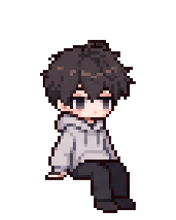
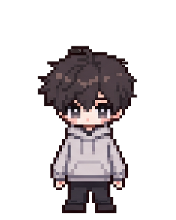
小家：上床改为渐变坐进被子再躺下，沙发换成正面坐姿并拉开间距 (#76)
- 上床是起床的倒放：走到床边后站姿淡出、被子里的坐姿同时淡入，
  停 420 毫秒，再躺下睡着。两人仍然先都走到床边再一起上床。
- 沙发：两人原来挤在中间并互相重叠，现在各坐一个坐垫正中
  （间距 .07 → .115），都用正面坐姿。
- boy_sit.png / girl_sit.png 换成正面坐姿。仓库里没有正面坐姿的原图，
  这两张是把站立图的腿缩短得到的；有手绘版时替换同名文件即可。
- 坐姿不再左右镜像。

Changed region(s): [[0.1989, 0.1636, 0.7955, 0.9818]]

diff --git a/frontend/test/room-engine.test.ts b/frontend/test/room-engine.test.ts
@@ -184,25 +184,57 @@ test("straight floor retargets keep their travel direction and avoid an initial 
   assert.equal(findSafePath({ nx: .60, ny: .46 }, { nx: .60, ny: .61 }, true), null);
 });
 
-test("actors fade into their furniture anchors together without sliding in a seated or sleeping pose", () => {
-  for (const kind of ["bed", "sofa"] as const) {
-    const engine = new RoomEngine();
-    const placed = kind === "bed" ? "SLEEP" : "SIT";
-    let sawPlacement = false;
-    engine.furniture(kind);
-    for (let frame = 0; frame < 360; frame++) {
-      const before = engine.snapshot().actors;
-      engine.tick(16);
-      const after = engine.snapshot().actors;
-      assert.equal(after.user.phase === placed, after.companion.phase === placed);
-      if (after.user.phase !== placed || before.user.phase === placed) continue;
-      sawPlacement = true;
-      for (const id of ["companion", "user"] as const) {
-        assert.ok((after[id].opacity ?? 1) <= .2);
-        assert.deepEqual(after[id].point, FURNITURE[kind][id].anchor);
-      }
+test("actors settle onto the sofa together in one fade, without sliding in a seated pose", () => {
+  const engine = new RoomEngine();
+  let sawPlacement = false;
+  engine.furniture("sofa");
+  for (let frame = 0; frame < 360; frame++) {
+    const before = engine.snapshot().actors;
+    engine.tick(16);
+    const after = engine.snapshot().actors;
+    assert.equal(after.user.phase === "SIT", after.companion.phase === "SIT");
+    if (after.user.phase !== "SIT" || before.user.phase === "SIT") continue;
+    sawPlacement = true;
+    for (const id of ["companion", "user"] as const) {
+      assert.ok((after[id].opacity ?? 1) <= .2);
+      assert.deepEqual(after[id].point, FURNITURE.sofa[id].anchor);
     }
-    assert.equal(sawPlacement, true);
+  }
+  assert.equal(sawPlacement, true);
+});
+
+test("going to bed crossfades to sitting under the quilt, pauses, then lies down", () => {
+  const engine = new RoomEngine();
+  const seen = { crossfade: 0, sitting: 0 };
+  engine.furniture("bed");
+  for (let frame = 0; frame < 360; frame++) {
+    engine.tick(16);
+    const actors = engine.snapshot().actors;
+    // Once both have walked up, they settle in step.
+    if (actors.user.phase !== "WALK" && actors.companion.phase !== "WALK") assert.equal(actors.user.phase, actors.companion.phase);
+    for (const id of ["companion", "user"] as const) {
+      const actor = actors[id];
+      const pillow = FURNITURE.bed[id].anchor;
+      if (actor.incoming) {
+        seen.crossfade++;
+        assert.deepEqual(actor.point, FURNITURE.bed[id].approach);
+        assert.equal(actor.incoming.phase, "SIT");
+        assert.equal(actor.incoming.furniture, "bed");
+        assert.ok(Math.abs((actor.opacity ?? 1) + (actor.incoming.opacity ?? 1) - 1) < 1e-9);
+      }
+      if (actor.furniture !== "bed") continue;
+      assert.notEqual(actor.phase, "WALK");
+      assert.equal(actor.point.nx, pillow.nx);
+      assert.ok(actor.point.ny <= pillow.ny && actor.point.ny > pillow.ny - .03);
+      if (actor.phase === "SIT") seen.sitting++;
+      else assert.deepEqual(actor.point, pillow);
+    }
+  }
+  assert.ok(seen.crossfade >= 2 * 15, "the move onto the bed is a crossfade, not a jump");
+  assert.ok(seen.sitting >= 2 * 20, "both sit for a beat before lying down");
+  for (const id of ["companion", "user"] as const) {
+    assert.equal(engine.snapshot().actors[id].phase, "SLEEP");
+    assert.deepEqual(engine.snapshot().actors[id].point, FURNITURE.bed[id].anchor);
   }
 });
 

diff --git a/frontend/src/room/roomEngine.ts b/frontend/src/room/roomEngine.ts
@@ -54,6 +54,12 @@ function faceDir(from: RoomPoint, to: RoomPoint, previous: FacingDir = "side"): 
   return "side";
 }
 
+// Where an actor sits up in bed: a little above the pillow, still under the quilt.
+const sitUpPoint = (actor: ActorId): RoomPoint => {
+  const pillow = FURNITURE.bed[actor].anchor;
+  return { nx: pillow.nx, ny: pillow.ny - SIT_UP_RISE };
+};
+
 const makeTrack = (point: RoomPoint): Track => ({
   frame: { point, phase: "IDLE", step: 0, facingLeft: false, facingDir: "front" },
   steps: [],
@@ -119,8 +125,9 @@ export class RoomEngine {
     const user = this.plan("user", FURNITURE[furniture].user.anchor, furniture);
     if (!companion || !user) return;
     const plans = [companion, user];
-    const approaches = plans.map(plan => ({ ...plan, steps: plan.steps.slice(0, -1) }));
-    const placements = plans.map(plan => ({ ...plan, steps: plan.steps.slice(-1) }));
+    // Both walk up first, then settle together; the settling steps are the ones on the furniture.
+    const approaches = plans.map(plan => ({ ...plan, steps: plan.steps.filter(step => !step.furniture) }));
+    const placements = plans.map(plan => ({ ...plan, steps: plan.steps.filter(step => step.furniture) }));
     this.begin(approaches, undefined, [placements]);
   }
 
@@ -129,18 +136,14 @@ export class RoomEngine {
     if (this.locked || !this.sleeping) return;
     // Sit up under the quilt, pause, then dissolve to standing on the floor.
     // Sliding the seated sprite to the floor instead would pass under the quilt.
-    this.begin(ACTORS.map(actor => {
-      const pillow = FURNITURE.bed[actor].anchor;
-      const upright = { nx: pillow.nx, ny: pillow.ny - SIT_UP_RISE };
-      return {
-        actor,
-        steps: [
-          { point: upright, furniture: "bed", transition: "SIT", pose: "SIT" },
-          { point: upright, furniture: "bed", pose: "SIT", wait: SIT_UP_MS },
-          { point: WAKE_POINTS[actor], pose: "IDLE", place: true, crossfade: true },
-        ],
-      };
-    }));
+    this.begin(ACTORS.map(actor => ({
+      actor,
+      steps: [
+        { point: sitUpPoint(actor), furniture: "bed", transition: "SIT", pose: "SIT" },
+        { point: sitUpPoint(actor), furniture: "bed", pose: "SIT", wait: SIT_UP_MS },
+        { point: WAKE_POINTS[actor], pose: "IDLE", place: true, crossfade: true },
+      ],
+    })));
   }
 
   action(action: CompanionAction, initiator: ActionInitiator = "OWNER") {
@@ -167,13 +170,15 @@ export class RoomEngine {
     const steps: Step[] = [];
     if (exit) steps.push({ point: exit.approach, place: true });
     steps.push(...path.map(point => ({ point })));
-    if (dock) {
-      steps.push({
-        point: dock.anchor,
-        furniture,
-        pose: furniture === "bed" ? "SLEEP" : "SIT",
-        place: true,
-      });
+    if (furniture === "bed") {
+      // Waking in reverse: dissolve to sitting under the quilt, pause, then lie down.
+      steps.push(
+        { point: sitUpPoint(actor), furniture, pose: "SIT", place: true, crossfade: true },
+        { point: sitUpPoint(actor), furniture, pose: "SIT", wait: SIT_UP_MS },
+        { point: FURNITURE.bed[actor].anchor, furniture, transition: "SIT", pose: "SLEEP" },
+      );
+    } else if (dock) {
+      steps.push({ point: dock.anchor, furniture, pose: "SIT", place: true });
     }
     return { actor, steps };
   }

diff --git a/frontend/src/components/PearlInteractiveRoom.tsx b/frontend/src/components/PearlInteractiveRoom.tsx
@@ -124,8 +124,7 @@ export function PearlInteractiveRoom({ companionName, isCompanionView, isActive 
   const renderActor = (id: ActorId, actor: ActorFrame = frame.actors[id], incoming = false) => {
     const action = spriteFor(actor);
     const sprites = (id === "user") !== isCompanionView ? GIRL_SPRITES : BOY_SPRITES;
-    const seated = actor.phase === "SIT";
-    const mirrored = seated ? id === "user" : actor.phase === "WALK" && (
+    const mirrored = actor.phase === "WALK" && (
       actor.facingDir === "side" && actor.facingLeft
       || actor.facingDir === "front" && actor.step === 3 && sprites === GIRL_SPRITES
     );

diff --git a/frontend/src/room/geometry.ts b/frontend/src/room/geometry.ts
@@ -14,8 +14,8 @@ export const BED_FLOOR_EDGE = .56;
 export const FURNITURE = {
   sofa: {
     bounds: bounds(SOFA_SLOT),
-    user: { approach: point(.79, .704), anchor: point(.615, .639) },
-    companion: { approach: point(.365, .704), anchor: point(.545, .639) },
+    user: { approach: point(.79, .704), anchor: point(.64, .646) },
+    companion: { approach: point(.365, .704), anchor: point(.525, .646) },
   },
   bed: {
     bounds: { x1: .02, y1: .22, x2: .35, y2: BED_FLOOR_EDGE },
